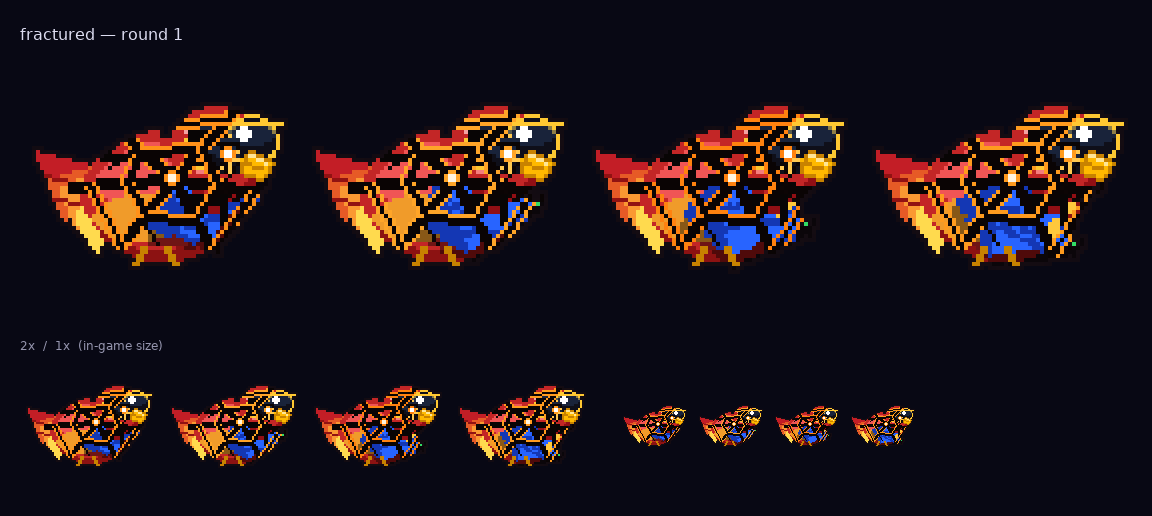
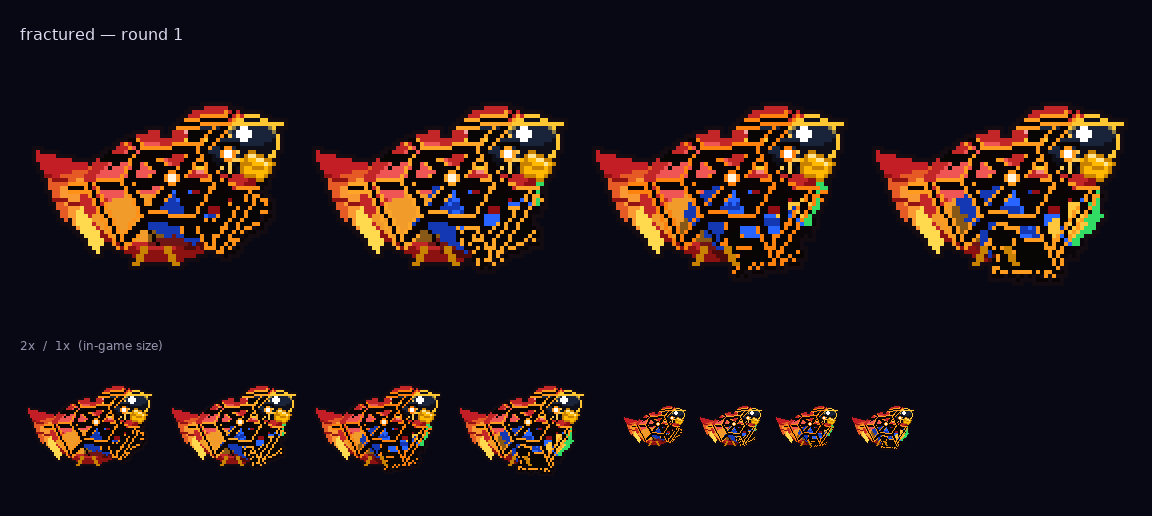
Update fractured + add gaunt Round 1 designs
fractured: updated design.py with refined fracture lines
gaunt: emaciation concept — shrunken 62% body, rib shadows,
sunken eye sockets, bone-line skeletal wing

Claude-Session: https://claude.ai/code/session_01SYxW5bMXxMEcZRx1arfvCN

diff --git a/docs/hurt-parrot-v2/gaunt/design.py b/docs/hurt-parrot-v2/gaunt/design.py
@@ -1,0 +1,224 @@
+"""
+gaunt — emaciation hurt-parrot concept (standalone exploration).
+
+Pip after the hit reads as *structurally* damaged rather than recoloured: the
+body ellipses collapse to 62%, the head droops off a bared neck, ribs show
+through the belly and the wing thins down to a bone. The empty canvas the
+shrunken silhouette leaves behind is the point — a tinted bird still looks
+healthy, a smaller one does not.
+
+Nothing here imports from `game/`; this file only renders a review sheet.
+"""
+import os
+import sys
+
+os.environ["SDL_AUDIODRIVER"] = "dummy"
+os.environ["SDL_VIDEODRIVER"] = "offscreen"
+
+import pygame
+
+pygame.init()
+
+SPRITE_W, SPRITE_H = 64, 60
+
+# Compressed downward arc — the wing barely lifts any more.
+_HURT_ANGLES = (10, -5, -20, -35)
+
+# --- starved palette: same hues as the healthy macaw, drained of energy ---
+BODY        = (190,  42,  42)
+BODY_SHADOW = (108,  18,  22)
+CHEST       = (230,  90,  90)
+BELLY       = (210, 140,  40)
+HEAD_SHADOW = (135,  13,  18)
+CHEEK       = (230, 148, 148)
+CROWN       = (230, 160, 160)
+
+NECK_DARK   = ( 55,  12,  12)
+NECK_LIT    = ( 75,  18,  18)
+SOCKET      = ( 42,   8,   8)
+RIB         = ( 70,  12,  12)
+RIB_LOW     = ( 65,  10,  10)
+
+TAIL_COLORS = ((165, 22, 32), (190, 78, 28), (210, 128, 42), (228, 192, 68))
+TAIL_LINE   = (120, 18,  24)
+
+BEAK        = (210, 152,   0)
+BEAK_D      = (165, 108,   0)
+FOOT        = (190, 130,   0)
+
+SHADE_FRAME = (200, 155,  35)
+SHADE_LENS  = ( 15,  15,  25)
+SHADE_GLINT = (230, 230, 240)
+
+
+def _aaellipse(surf, color, center, rx, ry):
+    cx, cy = center
+    pygame.draw.ellipse(surf, color, (cx - rx, cy - ry, rx * 2, ry * 2))
+
+
+def _add_outline(src, outline_color=(20, 12, 18, 220)):
+    pad = 2
+    w, h = src.get_size()
+    mask = pygame.mask.from_surface(src, threshold=8)
+    sil  = mask.to_surface(setcolor=outline_color, unsetcolor=(0, 0, 0, 0))
+    out  = pygame.Surface((w + pad * 2, h + pad * 2), pygame.SRCALPHA)
+    for dx in (-1, 0, 1):
+        for dy in (-1, 0, 1):
+            if dx == dy == 0:
+                continue
+            out.blit(sil, (pad + dx, pad + dy))
+    out.blit(src, (pad, pad))
+    return out
+
+
+def _build_wing(angle_deg):
+    """Skeletal wing — the healthy plan pulled 60% toward its own shoulder so
+    the span shortens without changing the feather layout, plus an exposed
+    bone ridge where the leading-edge highlight used to catch the light."""
+    def _s(px, py, cx=24, cy=24, f=0.6):
+        return (int(cx + (px - cx) * f), int(cy + (py - cy) * f))
+
+    WING   = ( 30,  70, 180, 180)
+    WING_D = ( 15,  40, 130, 160)
+    TIP    = ( 70, 150,  60)
+    STRIPE = (180, 140,  35)
+    HL     = (130, 175, 235)
+    BONE   = (210, 195, 162)
+
+    w = pygame.Surface((50, 50), pygame.SRCALPHA)
+    d = pygame.draw
+
+    d.polygon(w, (0, 0, 0, 80),
+              [_s(*p) for p in ((24, 26), (46, 14), (50, 30), (34, 44), (18, 40))])
+    d.polygon(w, WING,
+              [_s(*p) for p in ((24, 24), (44, 13), (48, 28), (32, 42), (18, 36))])
+    d.polygon(w, WING_D,
+              [_s(*p) for p in ((24, 24), (32, 42), (18, 36))])
+    d.polygon(w, TIP,
+              [_s(*p) for p in ((44, 13), (50, 18), (48, 28))])
+    d.polygon(w, STRIPE,
+              [_s(*p) for p in ((42, 18), (48, 22), (46, 28), (40, 24))])
+
+    # 1-px dividers: at this span 2-px lines would swallow the whole feather.
+    d.line(w, WING_D, _s(26, 25), _s(42, 18), 1)
+    d.line(w, WING_D, _s(28, 30), _s(44, 25), 1)
+    d.line(w, WING_D, _s(30, 34), _s(46, 32), 1)
+    d.line(w, HL,     _s(25, 25), _s(41, 15), 1)
+
+    # Bone stays 2-px: it has to out-read every feather line on the wing.
+    d.line(w, BONE,   _s(24, 24), _s(42, 14), 2)
+
+    return pygame.transform.rotate(w, angle_deg)
+
+
+def _build_hurt_frame(wing_angle_deg):
+    frame_map = {10: 0, -5: 1, -20: 2, -35: 3}
+    fidx      = frame_map.get(int(round(wing_angle_deg)), 0)
+    # The head sags one more pixel per frame, so the flap cycle itself reads as
+    # the bird losing the fight rather than as a neutral loop.
+    dy = fidx
+
+    surf = pygame.Surface((SPRITE_W, SPRITE_H), pygame.SRCALPHA)
+    d    = pygame.draw
+
+    # --- TAIL (full-length fan, drained colour) ---
+    # Geometry is untouched: against the collapsed body the unchanged tail is
+    # what makes the shrinkage legible.
+    for i, c in enumerate(TAIL_COLORS):
+        d.polygon(surf, c, [
+            (2 + i * 3, 26 + i * 2), (14 + i, 24 + i),
+            (20 + i, 30 + i * 2), (6 + i * 3, 36 + i * 2),
+        ])
+    d.line(surf, TAIL_LINE, (4, 27), (18, 31), 1)
+    d.line(surf, TAIL_LINE, (6, 33), (20, 35), 1)
+
+    # --- EYE SOCKETS (under the head, so only the hollow rim survives) ---
+    _aaellipse(surf, SOCKET, (45, 24 + dy), 9, 8)
+    _aaellipse(surf, SOCKET, (55, 23 + dy), 8, 7)
+
+    # --- NECK (bared by the shrunken body and the dropped head) ---
+    _aaellipse(surf, NECK_DARK, (44, 32), 4, 7)
+    _aaellipse(surf, NECK_LIT,  (43, 31), 3, 5)
+
+    # --- BODY (every radius at 62%, centre dropped 2 px) ---
+    _aaellipse(surf, BODY_SHADOW, (34, 37), 12, 9)
+    _aaellipse(surf, BODY,        (32, 34), 12, 9)
+    _aaellipse(surf, CHEST,       (30, 31),  8, 5)
+    _aaellipse(surf, BELLY,       (28, 40),  7, 4)
+
+    # --- RIBS ---
+    # Drawn on their own layer and min-blended against a body-shaped stencil:
+    # the lowest ribs are wider than what is left of the belly, and unclipped
+    # they would float free below the silhouette.
+    ribs = pygame.Surface((SPRITE_W, SPRITE_H), pygame.SRCALPHA)
+    _aaellipse(ribs, RIB,     (30, 37), 8, 1)
+    _aaellipse(ribs, RIB,     (30, 40), 7, 1)
+    _aaellipse(ribs, RIB,     (29, 43), 6, 1)
+    _aaellipse(ribs, RIB_LOW, (28, 46), 5, 1)
+    stencil = pygame.Surface((SPRITE_W, SPRITE_H), pygame.SRCALPHA)
+    _aaellipse(stencil, (255, 255, 255, 255), (32, 34), 12, 9)
+    ribs.blit(stencil, (0, 0), special_flags=pygame.BLEND_RGBA_MIN)
+    surf.blit(ribs, (0, 0))
+
+    # --- WING ---
+    # Shoulder rides 2 px lower than on the healthy bird to stay seated on the
+    # collapsed back instead of hovering above it.
+    wing = _build_wing(wing_angle_deg)
+    surf.blit(wing, wing.get_rect(center=(34, 30)).topleft)
+
+    # --- HEAD (shrunk, drooping) ---
+    _aaellipse(surf, HEAD_SHADOW, (47, 26 + dy), 10, 9)
+    _aaellipse(surf, BODY,        (46, 24 + dy), 10, 9)
+    _aaellipse(surf, CHEEK,       (43, 27 + dy),  3, 2)
+    _aaellipse(surf, CROWN,       (45, 18 + dy),  6, 2)
+
+    # --- AVIATORS (dulled gold, sunk into the sockets) ---
+    left  = (45, 24 + dy)
+    right = (54, 23 + dy)
+    for lens in (left, right):
+        d.circle(surf, SHADE_FRAME, lens, 5)
+        d.circle(surf, SHADE_LENS,  lens, 4)
+        d.circle(surf, SHADE_GLINT, (lens[0] - 2, lens[1] - 2), 1)
+    d.line(surf, SHADE_FRAME, (left[0] + 4, left[1]), (right[0] - 4, right[1]), 1)
+
+    # --- BEAK (shorter, no sheen) ---
+    beak_pts = [(54, 22 + dy), (59, 25 + dy), (57, 28 + dy), (52, 27 + dy)]
+    d.polygon(surf, BEAK,   beak_pts)
+    d.polygon(surf, BEAK_D, beak_pts, 1)
+
+    # --- FEET ---
+    # Toes keep their healthy reach while the legs now start higher up the
+    # smaller body, so they read as spindly rather than as detached strokes.
+    d.line(surf, FOOT, (28, 42), (26, 49), 2)
+    d.line(surf, FOOT, (34, 42), (36, 49), 2)
+
+    return surf
+
+
+if __name__ == "__main__":
+    OUT_DIR = os.path.dirname(os.path.abspath(__file__))
+    os.makedirs(OUT_DIR, exist_ok=True)
+
+    scale  = 4
+    frames = [_add_outline(_build_hurt_frame(a)) for a in _HURT_ANGLES]
+    fw, fh = frames[0].get_size()
+    margin, gap, label_h = 20, 8, 30
+
+    canvas_w = margin + len(frames) * fw * scale + (len(frames) - 1) * gap + margin
+    canvas_h = margin + label_h + gap + fh * scale + margin
+    canvas   = pygame.Surface((canvas_w, canvas_h))
+    canvas.fill((8, 8, 20))
+
+    try:
+        font = pygame.font.SysFont("dejavusans", 16)
+    except Exception:
+        font = pygame.font.Font(None, 16)
+    lbl = font.render("gaunt — round 1", True, (220, 220, 240))
+    canvas.blit(lbl, (margin, margin + (label_h - lbl.get_height()) // 2))
+
+    for i, frame in enumerate(frames):
+        canvas.blit(pygame.transform.scale(frame, (fw * scale, fh * scale)),
+                    (margin + i * (fw * scale + gap), margin + label_h + gap))
+
+    pygame.image.save(canvas, os.path.join(OUT_DIR, "round_1.png"))
+    print(f"Saved {canvas_w}x{canvas_h}")

diff --git a/docs/hurt-parrot-v2/fractured/design.py b/docs/hurt-parrot-v2/fractured/design.py
@@ -95,9 +95,13 @@ def _lerp_pt(p1, p2, t):
     return (p1[0] + (p2[0] - p1[0]) * t, p1[1] + (p2[1] - p1[1]) * t)
 
 
-def _draw_fracture(surf, p1, p2, glow, core_w=3, glow_w=1):
+def _draw_fracture(surf, p1, p2, glow, core_w=3, glow_w=1, taper=False):
     """Crack = black core with a hot rim on both flanks, so it reads as a
-    split in the surface rather than an ink line drawn on top of it."""
+    split in the surface rather than an ink line drawn on top of it.
+
+    Tapered cracks widen at the impact and close to a hairline at the tip,
+    which is what makes a radial read as a fracture and not as a painted
+    spoke — and it keeps the ink off the parrot's silhouette out at the rim."""
     x1, y1 = p1
     x2, y2 = p2
     dx, dy = x2 - x1, y2 - y1
@@ -109,8 +113,16 @@ def _draw_fracture(surf, p1, p2, glow, core_w=3, glow_w=1):
         a = (round(x1 + nx * sign), round(y1 + ny * sign))
         b = (round(x2 + nx * sign), round(y2 + ny * sign))
         pygame.draw.line(surf, glow, a, b, glow_w)
-    pygame.draw.line(surf, CRACK_CORE, (round(x1), round(y1)),
-                     (round(x2), round(y2)), core_w)
+    if not taper:
+        pygame.draw.line(surf, CRACK_CORE, (round(x1), round(y1)),
+                         (round(x2), round(y2)), core_w)
+        return
+    steps = max(core_w, 1)
+    for i in range(steps):
+        a = _lerp_pt(p1, p2, i / steps)
+        b = _lerp_pt(p1, p2, min((i + 1) / steps + 0.06, 1.0))
+        pygame.draw.line(surf, CRACK_CORE, (round(a[0]), round(a[1])),
+                         (round(b[0]), round(b[1])), core_w - i)
 
 
 def _displace_shard(surf, rect, offset):
@@ -130,7 +142,7 @@ def _displace_shard(surf, rect, offset):
     surf.blit(piece, (region.x + offset[0], region.y + offset[1]))
 
 
-def _build_wing(angle_deg):
+def _build_wing(angle_deg, glow):
     w = pygame.Surface((50, 50), pygame.SRCALPHA)
     d = pygame.draw
     d.polygon(w, (0, 0, 0, 110), [(24, 26), (46, 14), (50, 30), (34, 44), (18, 40)])
@@ -143,12 +155,18 @@ def _build_wing(angle_deg):
     d.line(w, WING_D, (30, 34), (46, 32), 2)
     d.line(w, WING_HI, (25, 25), (41, 15), 1)
 
-    # A primary is missing outright — punched clean out along crack angles.
-    # pygame.draw writes RGBA verbatim, so a zero-alpha polygon erases.
-    d.polygon(w, (0, 0, 0, 0), [(45, 12), (52, 20), (47, 29), (43, 22)])
-    # Torn edges either side of the void.
-    d.line(w, CRACK_CORE, (45, 12), (43, 22), 1)
-    d.line(w, CRACK_CORE, (47, 29), (43, 22), 1)
+    # Primaries missing outright, punched out along crack angles. The cuts sit
+    # on the trailing sweep rather than the upper tip because at every hurt
+    # wing angle that tip is buried behind the head. They are filled dark
+    # instead of erased to alpha for the same visibility reason: the wing
+    # overlaps the body, so a transparent cut would just show red feathers
+    # through and read as a patch rather than a hole.
+    bite = [(44, 29), (49, 36), (35, 45), (33, 37)]
+    hole = [(29, 34), (35, 33), (36, 39), (30, 40)]
+    for cut in (bite, hole):
+        d.polygon(w, CRACK_GAP, cut)
+        d.polygon(w, glow, cut, 1)
+        d.polygon(w, CRACK_CORE, [(p[0] + 1, p[1] + 1) for p in cut], 1)
 
     return pygame.transform.rotate(w, angle_deg)
 
@@ -203,7 +221,7 @@ def _build_hurt_frame(wing_angle_deg):
     _aaellipse(surf, BELLY,       (28, 38), 12, 6)
 
     # --- wing ---
-    wing = _build_wing(wing_angle_deg)
+    wing = _build_wing(wing_angle_deg, glow)
     surf.blit(wing, wing.get_rect(center=(34, 28)).topleft)
 
     # --- head ---
@@ -245,7 +263,7 @@ def _build_hurt_frame(wing_angle_deg):
     # --- fracture network, masked to the silhouette and drawn over all of it ---
     frac = pygame.Surface((SPRITE_W, SPRITE_H), pygame.SRCALPHA)
     for tip in _RADIALS:
-        _draw_fracture(frac, IMPACT, tip, glow)
+        _draw_fracture(frac, IMPACT, tip, glow, core_w=3, taper=True)
 
     # Chords between neighbouring radials — these are what close the web into
     # shards; without them the radials read as scratches, not shattered glass.
